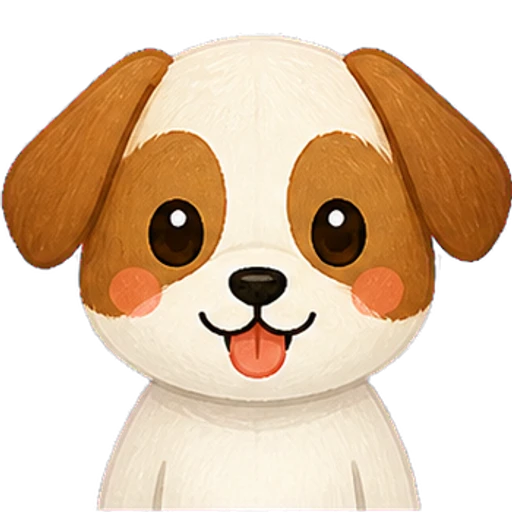
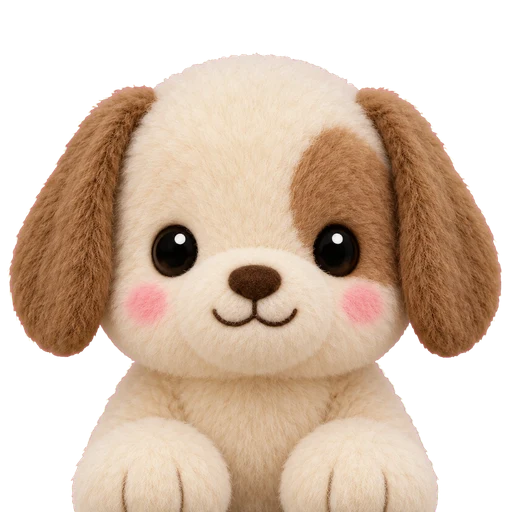
친구 고르기 동물 그림을 코덱스로 만든 3D 인형으로 교체
코덱스 이미지 생성은 투명 배경을 못 만들어 자홍 배경으로 받아 따낸다(scripts/key-magenta.mjs).

Claude-Session: https://claude.ai/code/session_01QBH8QXVzZrFFupYFLsALrj

diff --git a/docs/product-decisions.md b/docs/product-decisions.md
@@ -31,7 +31,7 @@
    - 친구 10종과 이름: 토끼 솔이, 곰 보리, 여우 루루, 호랑이 호두, 판다 모모, 강아지 두부, 고양이 나비, 코알라 코코, 사자 해솔, 개구리 초롱. 버튼은 "솔이와 시작하기"처럼 받침에 맞춰 와/과를 붙인다.
    - 서버 기본 별명(`lib/nickname-ideas.ts` 각 동물의 첫 후보)이 곧 친구 이름이다. 화면(`lib/animal-characters.ts`)은 이름을 따로 적지 않고 그 첫 후보를 읽어, 화면과 들어간 뒤 별명이 어긋나지 않는다. 이미 들어온 학생의 별명은 바꾸지 않는다.
    - 같은 반에서 같은 친구를 고르면 별명이 겹친다. 입장은 참여 코드로 구분되고 선생님은 실명으로 보므로 막지 않는다.
-   - 화면은 시안(`docs/design-assets/animal-picker/mockup-2026-09-13.png`) 배치다. 폭신한 3D 동물·장식 그림은 코덱스에 고해상도로 요청했고(요청서 `REQUEST-CODEX.md`), 도착 전까지는 옛 2D 그림을 동물별 파일로 잘라 임시로 쓴다. 동물 그림은 같은 파일 이름으로 덮어쓰면 코드 수정 없이 바뀐다.
+   - 화면은 시안(`docs/design-assets/animal-picker/mockup-2026-09-13.png`) 배치다. 동물 그림은 코덱스(사용자 ChatGPT 구독의 Codex CLI 이미지 생성)로 만든 폭신한 3D 인형 10종이다(2026-09-14, 사용자: "너가 직접 코덱스가 구독으로 되어있는데, 그걸 연결해봐라"). 원본은 `codex-assets/`, 화면 파일은 같은 이름의 `public/entry-green/animals/<slug>.webp`.
 5. 참여 코드는 교사 화면(명단·설정 탭, 코드표 인쇄)에만 보인다. 학생 응답에는 번호·이름·코드 목록을 절대 싣지 않는다. 코드 종이를 잃어버리거나 새어 나가면 교사가 그 아이 코드만 새로 뽑고(그림·별명은 그대로), 옛 코드는 바로 죽는다. 코드는 네 자리(만 개)이고 학급 + IP 버킷(60회/10분)이 무차별 대입을 막는다. 여섯 자리보다 추측이 쉬워진 것은 사실이나, 코드는 그 학급 안에서만 통하고 얻는 것은 아이 그림 접근뿐이라 이 한도로 감당한다고 판단했다(2026-09-12). 교사 화면에 그대로 보여 줘야 하므로 해시가 아니라 평문으로 저장한다(수업 코드와 같은 등급의 값).
 6. 같은 기기 재접속과 공유 태블릿 학생 전환을 지원한다. 전환은 나가기 뒤 다른 아이가 자기 코드를 넣는 것이다.
 7. 메인 화면의 수업 코드와 학급 QR은 모두 학급을 확인한 뒤 같은 참여 코드 입력 화면으로 이어진다. 수업 코드와 QR은 없애지 않는다(2026-09-09 사용자: "이거는 없애면 안돼지않아?").
